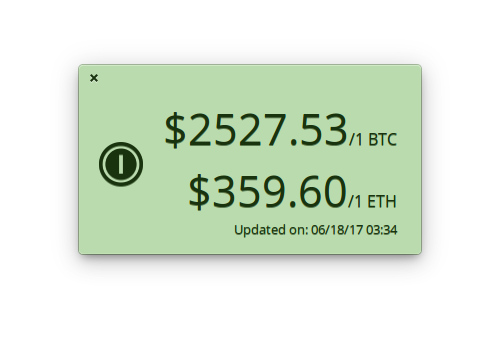
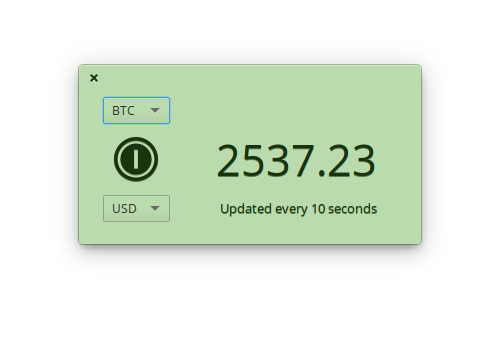
1.0.7 - Track any big virtual currency to any big currency with the applet now

diff --git a/README.md b/README.md
@@ -1,5 +1,5 @@
 # ![icon](data/icon.png) Coin
-## Track the Bitcoin & Ethereum currencies in dollar value.
+## Track the virtual currencies in real world currency value.
 
 ![Screenshot](data/shot.png)
 
@@ -11,8 +11,8 @@ Please make sure you have these dependencies first before building.
 granite
 gtk+-3.0
 meson
-libsoup-2.4
-libjson0
+libsoup2.4
+libjson-glib
 ```
 
 ## Building
